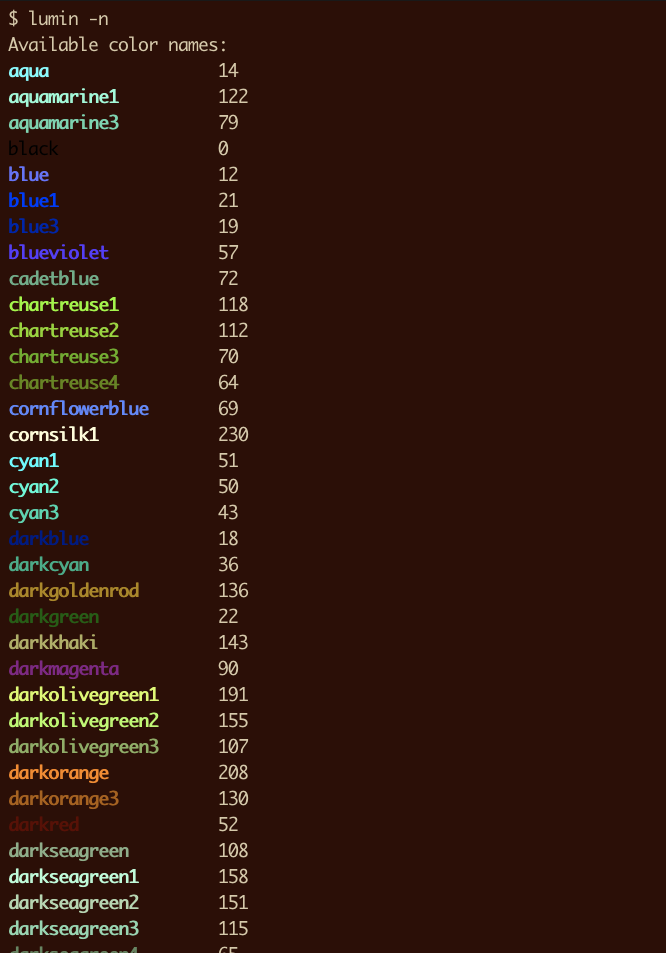
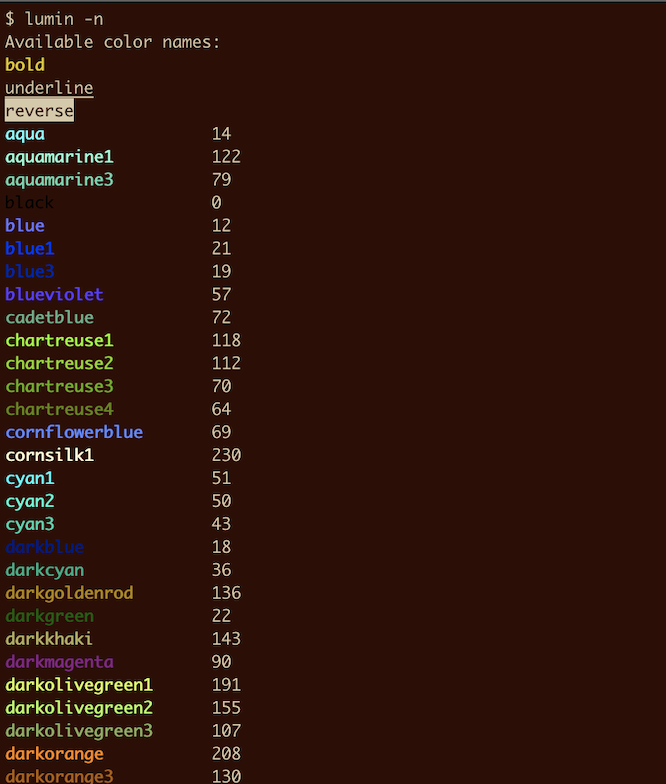
documentqtion for bold, underline, and reverse

Changed region(s): [[0.0, 0.0, 1.0, 1.0], [0.3003, 0.0612, 0.3904, 1.0]]

diff --git a/lumin.go b/lumin.go
@@ -38,9 +38,13 @@ Options:
 -i                     Allow for case-insensitive matches.
 -c|--color {name}      Use {name} to highlight matches -- see -l/-n for choices.
                        Example names: red, yellow, green, orchid, 9, 11, 2, 170.
+                       You can also use bold, underline, and reverse. As well,
+                       combinations of these joined with a -, such as bold-red,
+                       bold-underline, red-underline, etc.
                        You can also set the %s environment variable if you like.
 -l|--list-color-codes  Show available color codes 0..255.
--n|--list-color-names  Show available color names (aliases for the 0..255 codes).
+-n|--list-color-names  Show available color names (aliases for the 0..255 codes)
+                       along with bold, underline, reverse, and combinations.
 --                     Signify end of options, so next argument is the pattern.
                        E.g. to search for "-x" in file foo.txt, use "lumin -- -x foo.txt".
 -h|--help              Print this messsage.

diff --git a/pkg/colors/colors.go b/pkg/colors/colors.go
@@ -35,6 +35,9 @@ func ListColorCodes() {
 // ListColorNames shows names for codes in the range 0..255.
 func ListColorNames() {
 	fmt.Println("Available color names:")
+	fmt.Printf("%s%s%s\n", MakeANSIEscapesFromNameUnconditionally("bold"), "bold", DefaultColorString)
+	fmt.Printf("%s%s%s\n", MakeANSIEscapesFromNameUnconditionally("underline"), "underline", DefaultColorString)
+	fmt.Printf("%s%s%s\n", MakeANSIEscapesFromNameUnconditionally("reverse"), "reverse", DefaultColorString)
 	for _, pair := range namesAndCodes {
 		fmt.Printf(
 			"%s%-20s%s %d\n",

diff --git a/README.md b/README.md
@@ -52,9 +52,13 @@ Options:
 -i                     Allow for case-insensitive matches.
 -c|--color {name}      Use {name} to highlight matches -- see -l/-n for choices.
                        Example names: red, yellow, green, orchid, 9, 11, 2, 170.
+                       You can also use bold, underline, and reverse. As well,
+                       combinations of these joined with a -, such as bold-red,
+                       bold-underline, red-underline, etc.
                        You can also set the LUMIN_MATCH_COLOR environment variable if you like.
 -l|--list-color-codes  Show available color codes 0..255.
--n|--list-color-names  Show available color names (aliases for the 0..255 codes).
+-n|--list-color-names  Show available color names (aliases for the 0..255 codes)
+                       along with bold, underline, reverse, and combinations.
 --                     Signify end of options, so next argument is the pattern.
                        E.g. to search for "-x" in file foo.txt, use "lumin -- -x foo.txt".
 -h|--help              Print this messsage.
